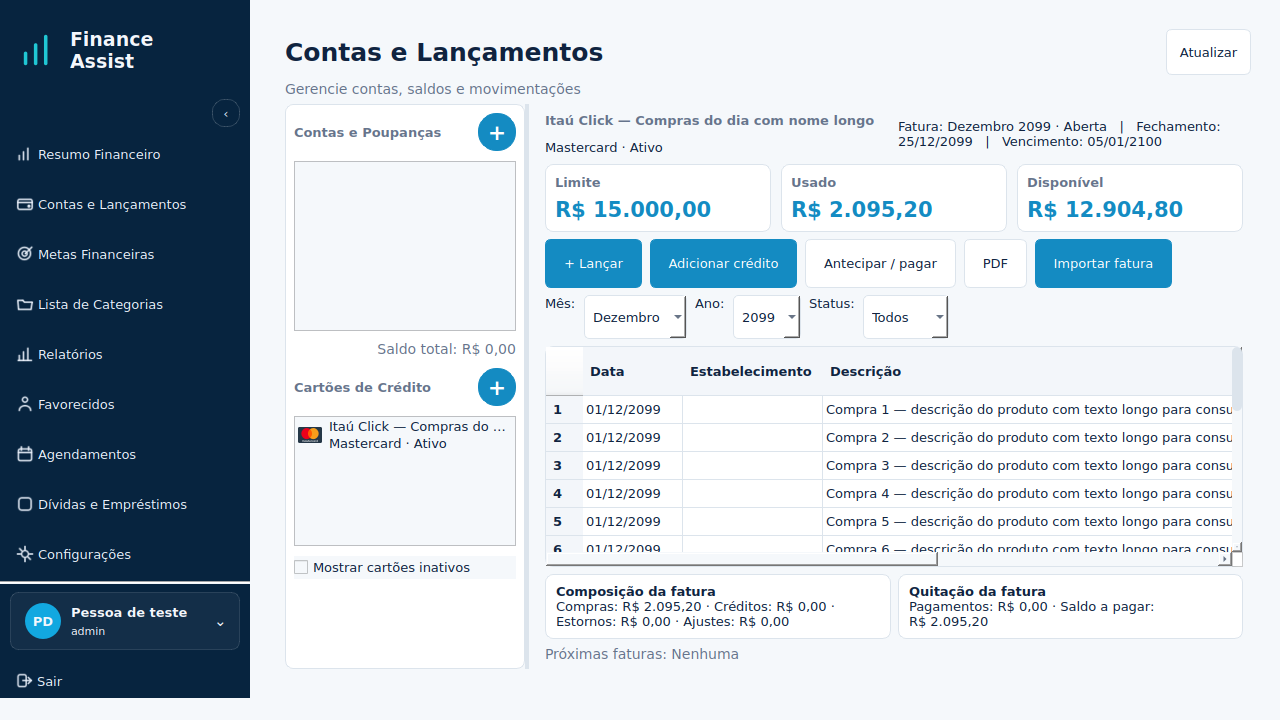
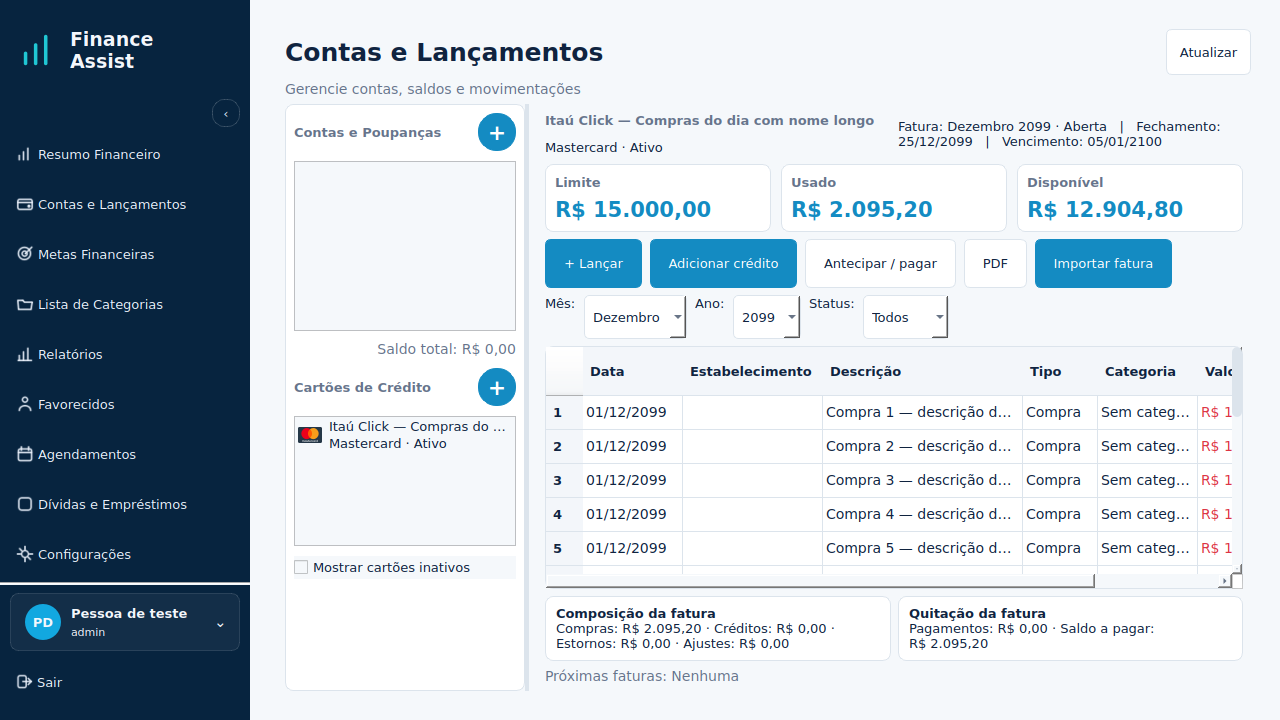
Prioriza descrição ao expandir tabela e preserva todas as larguras manuais

diff --git a/views/painel_fatura.py b/views/painel_fatura.py
@@ -257,11 +257,13 @@ class PainelFatura(QWidget):
             "Data", "Estabelecimento / Favorecido", "Descrição", "Tipo", "Categoria", "Valor", "Status"
         ])
         self.table.horizontalHeader().setSectionResizeMode(QHeaderView.Interactive)
-        self.table.horizontalHeader().setStretchLastSection(True)
         self.table.horizontalHeader().setDefaultAlignment(Qt.AlignLeft | Qt.AlignVCenter)
-        self._table_width_initialized = False
+        self._columns_user_sized = False
+        self._resizing_columns = False
         for column, width in enumerate((95, 160, 290, 95, 125, 110, 95)):
             self.table.setColumnWidth(column, width)
+        self.table.horizontalHeader().sectionResized.connect(self._remember_column_resize)
+        self.table.setHorizontalScrollMode(QAbstractItemView.ScrollPerPixel)
         self.table.setWordWrap(False)
         self.table.setTextElideMode(Qt.ElideRight)
         self.table.setEditTriggers(QAbstractItemView.NoEditTriggers)
@@ -335,12 +337,7 @@ class PainelFatura(QWidget):
             self.indicators_layout.addWidget(widget, index // columns, index % columns)
         for column in range(3):
             self.indicators_layout.setColumnStretch(column, 1 if column < columns else 0)
-        if not self._table_width_initialized and self.isVisible():
-            usable = max(660, self.table.viewport().width())
-            widths = (100, 140, max(200, usable - 610), 75, 100, 100, 95)
-            for column, section_width in enumerate(widths):
-                self.table.setColumnWidth(column, section_width)
-            self._table_width_initialized = True
+        QTimer.singleShot(0, self._fit_table_columns)
         font_size = 9 if width < 760 else 10
         self.table.setFont(QFont(self.font().family(), font_size))
         self.table.verticalHeader().setDefaultSectionSize(28 if width < 760 else 34)
@@ -350,6 +347,22 @@ class PainelFatura(QWidget):
             button.setToolButtonStyle(
                 Qt.ToolButtonIconOnly if width < 600 else Qt.ToolButtonTextBesideIcon
             )
+
+    def _remember_column_resize(self, *_):
+        if not self._resizing_columns:
+            self._columns_user_sized = True
+
+    def _fit_table_columns(self):
+        if self._columns_user_sized or not self.isVisible():
+            return
+        usable = self.table.viewport().width()
+        widths = (100, 140, max(200, usable - 610), 75, 100, 100, 95)
+        self._resizing_columns = True
+        try:
+            for column, section_width in enumerate(widths):
+                self.table.setColumnWidth(column, section_width)
+        finally:
+            self._resizing_columns = False
 
     def showEvent(self, event):
         super().showEvent(event)

diff --git a/tests/interface/test_invoice_context_layout.py b/tests/interface/test_invoice_context_layout.py
@@ -29,6 +29,8 @@ def test_context_and_flexible_table(monkeypatch, language, screen):
     assert panel.table.item(0, 1).toolTip() == panel.table.item(0, 1).text()
     assert panel.table.item(0, 2).toolTip() == panel.table.item(0, 2).text()
     assert panel.table.horizontalHeader().sectionResizeMode(2) == QHeaderView.Interactive
+    assert panel.table.horizontalHeader().sectionResizeMode(6) == QHeaderView.Interactive
+    assert panel.table.columnWidth(2) == max(200, panel.table.viewport().width() - 610)
     panel.table.setColumnWidth(2, 245)
     panel.resize(panel.width() + 30, panel.height())
     app.processEvents()

diff --git a/docs/PAINEL_FATURA_PUBLICACAO.md b/docs/PAINEL_FATURA_PUBLICACAO.md
@@ -13,7 +13,7 @@ A versão permanece **2.1.0-test.17**, Debian **2.1.0~test17**.
 - Indicadores Limite/Usado/Disponível e ações existentes preservados.
 - Tabela: Data, Estabelecimento/Favorecido, Descrição, Tipo, Categoria, Valor,
   Status. Favorecido utiliza o JOIN existente; ausente permanece vazio.
-- Descrição recebe a maior largura inicial. Colunas podem ser redimensionadas
+- Descrição recebe a maior largura inicial e absorve o espaço adicional da janela até o usuário ajustar as colunas. Colunas podem ser redimensionadas
   manualmente; o ajuste não é sobrescrito ao redimensionar a janela. Rolagem
   horizontal mantém todas as colunas acessíveis. Elipse e tooltip preservam
   acesso ao texto integral, inclusive nos nomes da lista lateral.
@@ -28,12 +28,14 @@ compras, créditos e importações continuam bloqueados pelas regras existentes.
 ## Validação e distribuição
 
 Regressão completa local: **461 testes aprovados**, zero falhas/erros/ignorados,
-15 avisos de depreciação de dependências, em 103,90 s.
+15 avisos de depreciação de dependências, em 117,36 s.
 
 ```bash
 TMPDIR=/dev/shm/finance-assist-invoice-tests QT_QPA_PLATFORM=offscreen \
   .venv-finance-assist/bin/python -m pytest -q tests
 ```
+
+Rodada focada final: **100 testes aprovados**, um aviso de depreciação, em 11,20 s.
 
 Inclui cálculos e ciclos de fatura, atomicidade, pagamentos parciais, cartão
 ativo/inativo, integridade, backup, catálogos offline e interface. Os nove novos
@@ -49,8 +51,8 @@ Capturas sintéticas da janela completa, tema Primavera/Qt offscreen:
 - [1366×768 ES](./evidencias/painel-fatura-homologado/painel-1366x768-es.png)
 - [Medidas dos nove cenários](./evidencias/painel-fatura-homologado/medidas.json)
 
-Em PT: viewport da tabela de 649×156 em 1280×720, 735×204 em 1366×768 e
-1289×531 em 1920×1080. Rolagem horizontal disponível sem ocultar colunas;
+Em PT: viewport da tabela de 649×178 em 1280×720, 735×204 em 1366×768 e
+1299×545 em 1920×1080. Rolagem horizontal disponível sem ocultar colunas;
 resumo e ações acessíveis. As capturas comprovam estes cenários no Linux;
 os builds nativos validam inicialização das telas em cada plataforma.
 
